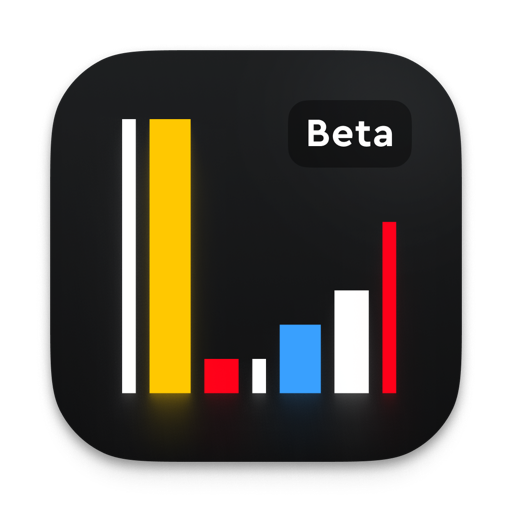
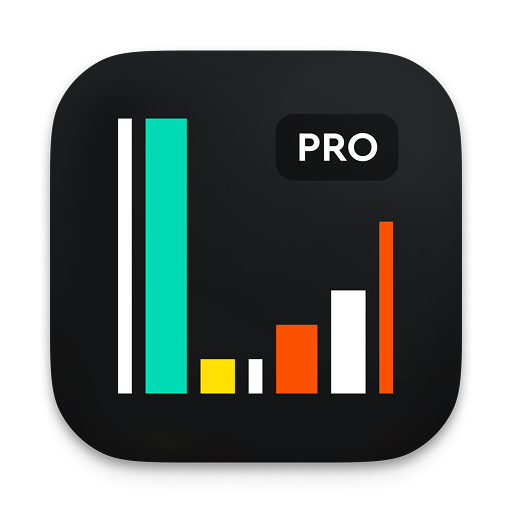
Update Longbridge to v0.15.1 and switch to GNOME 50 runtime.
Upstream switched from an Electron app to a native binary built on
GPUI (zed's GUI framework), which links against webkit2gtk-4.1 and
libsoup-3.0, so the Electron BaseApp and bundled OpenSSL 1.1 are no
longer applicable. Replace them with the GNOME 50 runtime (freedesktop
25.08 base) and a direct exec.

Also:
- Adapt apply_extra to data.tar.zst and the new usr/local/bin layout.
- Drop aarch64 (no upstream Linux arm64 build) and add flathub.json
  to mark the app as x86_64-only.
- Bundle Noto Sans Regular and Noto Sans CJK Regular via jsDelivr
  (the GNOME runtime ships no fonts under /usr/share/fonts, and GPUI
  panics if it cannot find any of its Latin fallbacks). Pull the
  individual TTF/TTC files instead of the multi-hundred-MB release
  zips.
- Add Wayland and fallback-x11 sockets.
- Refresh desktop entry, metainfo and the application icon to match
  the new upstream branding.
- Add x-checker-data so flathub-external-data-checker can track
  upstream releases automatically.

Changed region(s): [[0.2188, 0.2188, 0.7812, 0.8438], [0.5625, 0.2188, 0.7812, 0.3125], [0.3125, 0.875, 0.6875, 0.9062]]

diff --git a/README.md b/README.md
@@ -1,0 +1,29 @@
+# Longbridge Pro (Flatpak)
+
+Flatpak packaging for [Longbridge Pro](https://longbridge.com/desktop/), a
+professional securities trading desktop application.
+
+The upstream binary is repackaged from the Debian release published at
+<https://assets.lbkrs.com/github/release/longbridge-desktop/stable/>.
+Releases are tracked automatically via `x-checker-data` against
+`latest.json`.
+
+## Bundled fonts
+
+Longbridge's GUI does not pick up the fonts shipped by the GNOME
+runtime and panics at startup when it cannot resolve one of the font
+families it knows about. To keep the application usable out of the
+box, two Noto fonts (Regular weight only) are installed into
+`/app/share/fonts/`:
+
+- **Noto Sans Regular** — Latin/Greek/Cyrillic coverage, sourced from
+  [`notofonts/notofonts.github.io`](https://github.com/notofonts/notofonts.github.io)
+  (`noto-monthly-release-2026.05.01`).
+- **Noto Sans CJK Regular** — CJK coverage, sourced from
+  [`notofonts/noto-cjk`](https://github.com/notofonts/noto-cjk)
+  (`Sans2.004`).
+
+Both fonts are licensed under the
+[SIL Open Font License 1.1](https://scripts.sil.org/OFL); the license
+texts are bundled next to the font files as
+`NotoSans.LICENSE.txt` and `NotoSansCJK.LICENSE.txt`.
